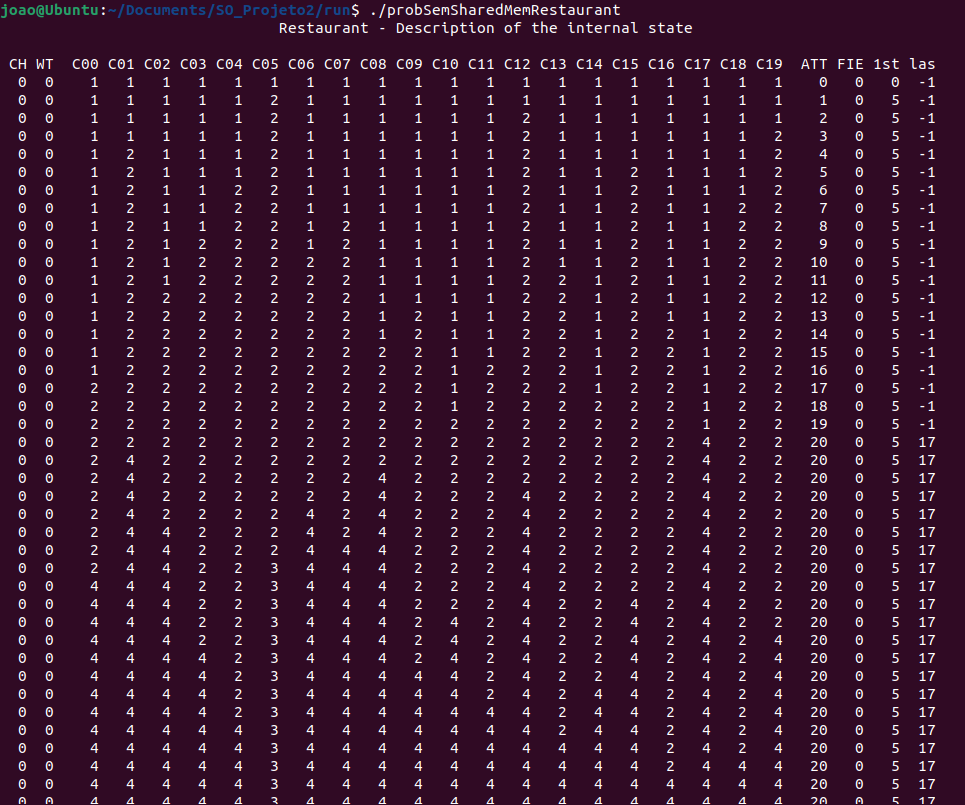
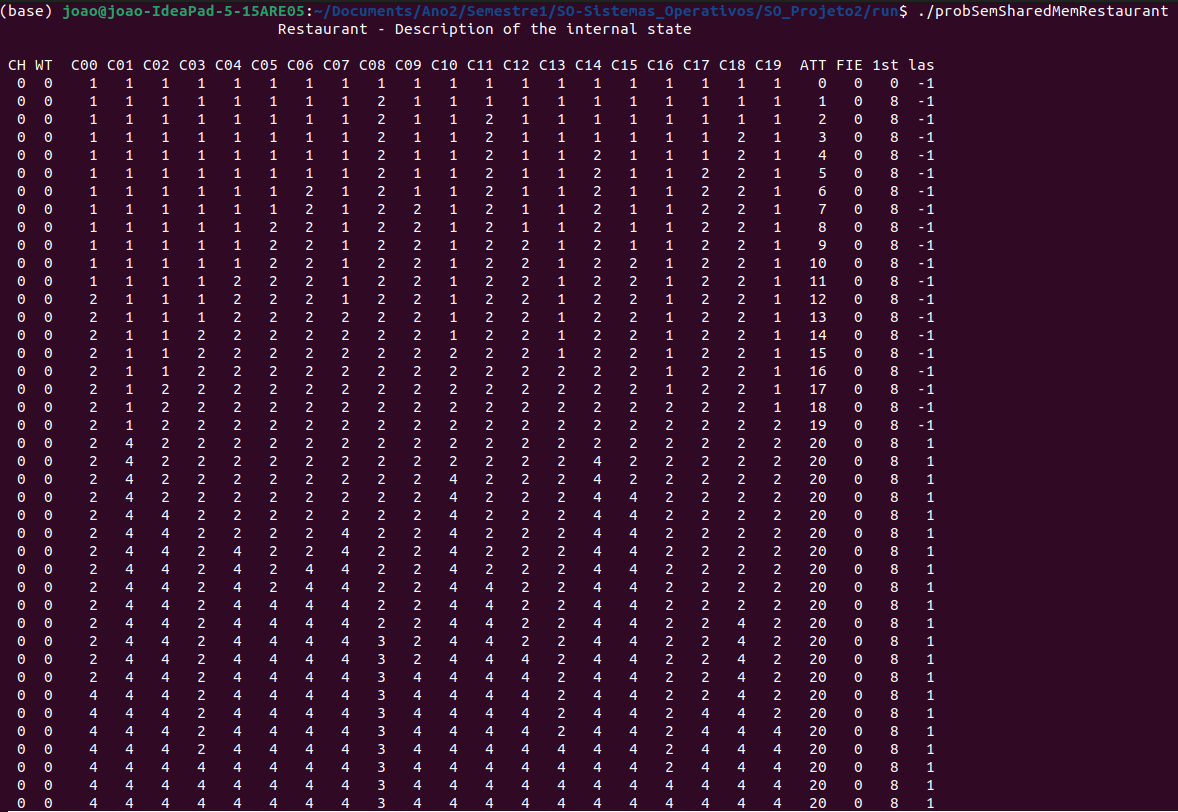
WaitForClientorChef working, but not when is expected to

Changed region(s): [[0.0, 0.0, 1.0, 1.0], [0.8394, 0.0621, 0.9637, 0.1553]]

diff --git a/src/semSharedMemClient.c b/src/semSharedMemClient.c
@@ -175,7 +175,7 @@ static bool waitFriends(int id)
     }
     else if(sh->fSt.tableClients==TABLESIZE){ // se for o último cliente a chegar
         sh->fSt.tableLast=id; // já guarda o id do último
-        sh->fSt.st.clientStat[id] = WAIT_FOR_FOOD; // o último cliente já pode fazer o pedido
+        sh->fSt.st.clientStat[id] = WAIT_FOR_FOOD; // o último cliente já pode esperar pelo pedido. Passa do estado 2 para o 4
         for(int i=1;i<=TABLESIZE;i++){
             if (semUp (semgid, sh->friendsArrived) == -1)         /* unlocks friends (the extra up is so they themselves don't block on the down) */
             { // este if é para verificar se está bem, mas não dá erro se tirar
@@ -185,7 +185,7 @@ static bool waitFriends(int id)
         }
     }
 
-    saveState (nFic, &(sh->fSt));
+    saveState (nFic, &(sh->fSt)); // Mete-se o & porque é um ponteiro, senão dá erro de FULL_STAT ser diferente de FULL_STAT*
     
     if (semUp (semgid, sh->mutex) == -1)                                                      /* exit critical region */
     { perror ("error on the up operation for semaphore access (CT)");
@@ -220,14 +220,16 @@ static void orderFood (int id)
     }
 
     /* insert your code here */
-    sh->fSt.st.clientStat[id] = FOOD_REQUEST; // O estado é atualizado
-
+    
+    sh->fSt.st.clientStat[id] = FOOD_REQUEST; // O estado é atualizado para o estado 3
+    
     // O pedido é feito ao waiter
     if (semUp (semgid, sh->requestReceived) == -1)         /* unlocks waiter */
     { // este if é para verificar se está bem, mas não dá erro se tirar
         perror ("error on the up operation for semaphore access (CT)");
         exit (EXIT_FAILURE);
     }
+    saveState (nFic, &(sh->fSt));
 
     if (semUp (semgid, sh->mutex) == -1)                                                      /* exit critical region */
     { perror ("error on the up operation for semaphore access (CT)");

diff --git a/src/semSharedMemWaiter.c b/src/semSharedMemWaiter.c
@@ -148,11 +148,26 @@ static int waitForClientOrChef()
         perror ("error on the up operation for semaphore access (WT)");
         exit (EXIT_FAILURE);
     }
-
     /* insert your code here */
-    
+    // A condição de partida, está mal, o que faz com que o waiter comece logo a 1
+      if (semUp (semgid, sh->requestReceived) == -1)        
+    { // este if é para verificar se está bem, mas não dá erro se tirar
+        perror ("error on the up operation for semaphore access (CT)");
+        exit (EXIT_FAILURE);
+    }
+        sh->fSt.st.waiterStat = INFORM_CHEF;
+        ret= FOODREQ; // vai chamar depois a outra função informChef
+        saveState (nFic, &(sh->fSt));
+        
+
     if (semUp (semgid, sh->mutex) == -1)      {                                             /* exit critical region */
         perror ("error on the down operation for semaphore access (WT)");
+        exit (EXIT_FAILURE);
+    }
+
+        if (semDown (semgid, sh->requestReceived) == -1)        
+    { 
+        perror ("error on the up operation for semaphore access (CT)");
         exit (EXIT_FAILURE);
     }
 
